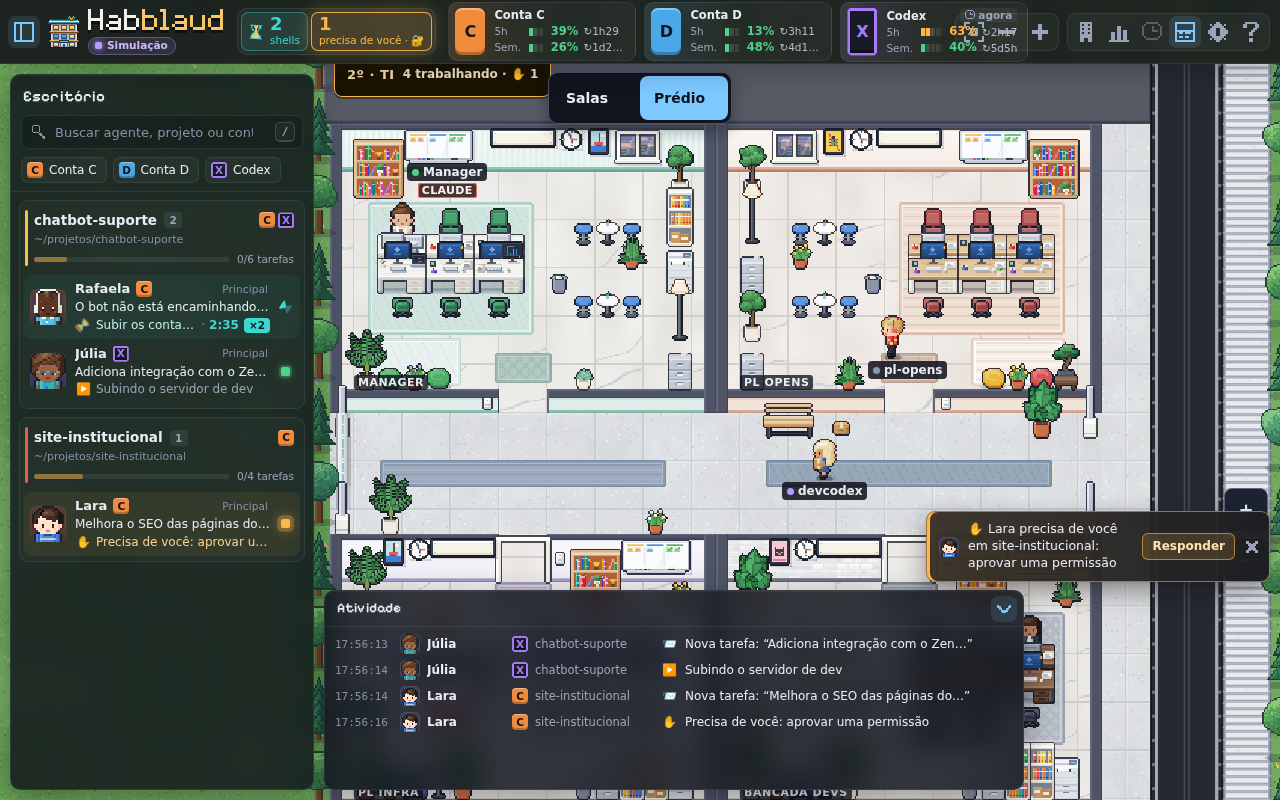
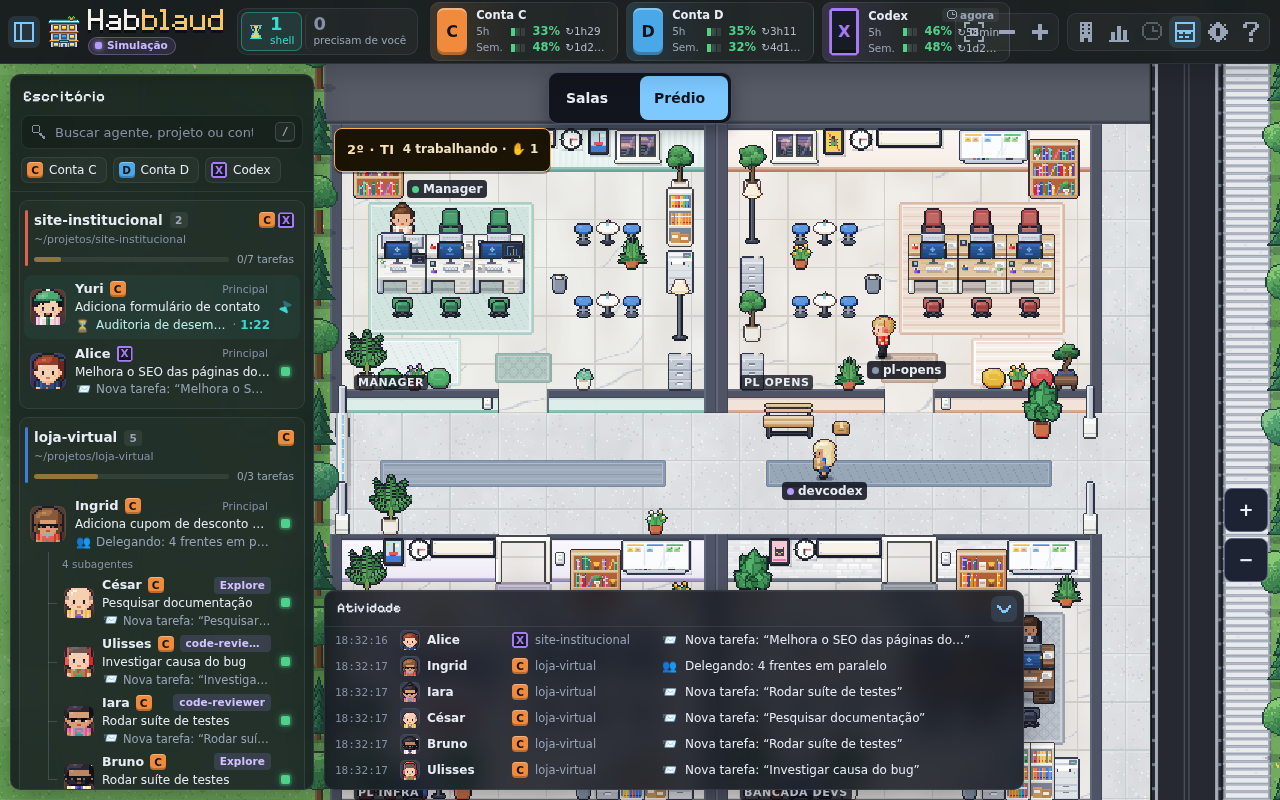
prédio vertical S7: placa do andar enquadrado abaixo da barra do topo e crachás fora da barra/gaveta Atividade (pedido do designer, t_eecf6447)

diff --git a/client/src/predio/vista.ts b/client/src/predio/vista.ts
@@ -15,7 +15,7 @@ import { PathFinder } from '../world/path/astar';
 import { furnitureSprites, opaqueBounds } from '../world/render/scene';
 import { Bonecos, type Boneco } from './bonecos';
 import { BUSCA_MAX, posicionarCrachas, sobrepoe, type ItemCracha } from './crachas';
-import { andarEm, enquadrarRet, ESCALA_MAX, escalaVisao, LARGO_PX, ladoDireito, MARGEM, retAndar, retSala, retSalaPorId, type Ret } from './enquadrar';
+import { andarEm, areaVisivel, enquadrarRet, ESCALA_MAX, escalaVisao, LARGO_PX, ladoDireito, MARGEM, prenderPlaca, retAndar, retSala, retSalaPorId, type LivreV, type Ret } from './enquadrar';
 import { BX, LAJE, montarCena, POCO_W, POCO_X, WT, type AndarCena, type Cena } from './planta';
 import { areasVis, desenhar, type ArtPredio, type Quadro } from './render';
 
@@ -349,6 +349,14 @@ export class VistaPredio implements UiComponent {
     this.margem = l + r < this.camada.clientWidth - 80 ? { l, r } : { l: 0, r: 0 };
     return this.margem;
   }
+  /** Faixas cobertas em cima (--free-top além da base da barra) e embaixo (barra/gaveta Atividade, --free-bottom). */
+  private livreV(): LivreV {
+    const cs = getComputedStyle(this.ctx.root);
+    const px = (n: string) => Math.max(0, parseFloat(cs.getPropertyValue(n)) || 0);
+    const t = Math.max(0, px('--free-top') - (parseFloat(this.camada.style.top) || 0));
+    const b = px('--free-bottom');
+    return t + b < this.camada.clientHeight - 80 ? { t, b } : { t: 0, b: 0 };
+  }
   private escalaVisao(): number {
     return escalaVisao(this.camada.clientWidth, this.livre());
   }
@@ -553,6 +561,8 @@ export class VistaPredio implements UiComponent {
       const max = sl + W - r - 8 - w;
       const x = Math.round(Math.max(min, Math.min(Math.max(ox + BX * TILE * s + 4, min), max)));
       let y = Math.round(p.a.y0 * TILE * s + (LAJE * TILE * s) / 2);
+      // nunca acima do topo da camada (a placa sumia sob a barra do topo com o andar enquadrado em 1280)
+      y = Math.round(prenderPlaca(y, h, this.camada.scrollTop, p.a.y1 * TILE * s));
       if (alt.w && sobrepoe({ x, y: y - h / 2, w, h }, alt) > 0) y = Math.round(alt.y + alt.h + 4 + h / 2);
       p.el.style.left = `${x}px`;
       p.el.style.top = `${y}px`;
@@ -583,7 +593,8 @@ export class VistaPredio implements UiComponent {
     const W = this.camada.clientWidth;
     const H = this.camada.clientHeight;
     const { l, r } = this.margem;
-    const vis: Ret = { x: sl + l, y: st, w: W - l - r, h: H };
+    // sem a lista, a gaveta, a faixa do topo e a barra/gaveta Atividade: crachá ali fica escondido (D4)
+    const vis: Ret = areaVisivel(sl, st, W, H, { l, r }, this.livreV());
     const limite: Ret = { x: vis.x + 4, y: vis.y + 4, w: vis.w - 8, h: vis.h - 8 };
     const ativos: Cracha[] = [];
     for (const c of this.crachas.values()) {
@@ -671,6 +682,7 @@ export class VistaPredio implements UiComponent {
     const W = this.camada.clientWidth;
     const H = this.camada.clientHeight;
     const { l, r } = this.margem;
+    const { t, b: fundo } = this.livreV();
     const ox = this.offX();
     const s = this.escala;
     const sl = this.camada.scrollLeft;
@@ -687,7 +699,7 @@ export class VistaPredio implements UiComponent {
       res.total++;
       if (c.curto) res.abreviados++;
       if (moveis.some((mv) => sobrepoe(a, mv) > 0)) res.sobreMovel++;
-      if (a.x < l - 0.5 || a.x + a.w > W - r + 0.5 || a.y < -0.5 || a.y + a.h > H + 0.5) res.cortados++;
+      if (a.x < l - 0.5 || a.x + a.w > W - r + 0.5 || a.y < t - 0.5 || a.y + a.h > H - fundo + 0.5) res.cortados++;
       if (placas.some((p) => sobrepoe(a, p) > 0) || crachas.some((o, j) => j !== i && sobrepoe(a, o.r) > 0)) res.sobreCrachaOuPlaca++;
     });
     return res;

diff --git a/client/src/predio/enquadrar.test.ts b/client/src/predio/enquadrar.test.ts
@@ -2,7 +2,7 @@ import { describe, expect, it } from 'vitest';
 import { roomTheme } from '../art/theme';
 import { TILE } from '../art/api';
 import { exemploPredio, montarPredio } from '../ui/predio-model';
-import { andarEm, enquadrarRet, ESCALA_MAX, escalaVisao, ladoDireito, retAndar, retSala, retSalaPorId, TOPO_PX } from './enquadrar';
+import { andarEm, areaVisivel, enquadrarRet, prenderPlaca, ESCALA_MAX, escalaVisao, ladoDireito, retAndar, retSala, retSalaPorId, TOPO_PX } from './enquadrar';
 import { BX, montarCena } from './planta';
 
 const cena = () => {
@@ -59,6 +59,25 @@ describe('enquadrar (D3)', () => {
 
   it('nunca passa de ESCALA_MAX', () => {
     expect(enquadrarRet({ x: 0, y: 0, w: 50, h: 50 }, 1280, 800).escala).toBe(ESCALA_MAX);
+  });
+
+  it('placa do andar enquadrado não sobe para baixo da barra do topo (presa 8 px abaixo do topo visível)', () => {
+    // 1280, lista fechada, toque no TI (escala 2,02): a placa cairia com o centro 5 px acima do topo da camada
+    const st = 1000;
+    expect(prenderPlaca(st - 5, 44, st, st + 600)).toBe(st + 8 + 22);
+    // já dentro: não mexe
+    expect(prenderPlaca(st + 100, 44, st, st + 600)).toBe(st + 100);
+    // andar quase todo rolado para cima: a placa não sai do próprio andar
+    expect(prenderPlaca(st - 500, 44, st, st + 20)).toBe(st + 20 - 8 - 22);
+    // andar todo acima da tela: fica onde estava
+    expect(prenderPlaca(st - 500, 44, st, st - 100)).toBe(st - 500);
+  });
+
+  it('área visível desconta a barra/gaveta Atividade embaixo, a faixa do topo e a lista lateral', () => {
+    // 375: barra Atividade em 766..804 (--free-bottom 54), camada de 108 a 812
+    expect(areaVisivel(0, 300, 375, 704, { l: 0, r: 0 }, { t: 8, b: 54 })).toEqual({ x: 0, y: 308, w: 375, h: 642 });
+    // 1280 com a lista e a gaveta abertas
+    expect(areaVisivel(50, 0, 1280, 736, { l: 322, r: 0 }, { t: 8, b: 218 })).toEqual({ x: 372, y: 8, w: 958, h: 510 });
   });
 
   it('sala do lado tocado, a mais perto do toque; ?sala= pelo id de PLANTA', () => {

diff --git a/client/src/predio/enquadrar.ts b/client/src/predio/enquadrar.ts
@@ -24,6 +24,27 @@ export interface Livre {
   r: number;
 }
 
+/** Faixas de cima e de baixo cobertas na camada (topo: o que passa da barra; baixo: barra/gaveta Atividade). */
+export interface LivreV {
+  t: number;
+  b: number;
+}
+
+/** Parte do palco (px) que aparece de fato: a tela rolada menos lista, gaveta, faixa do topo e Atividade. */
+export function areaVisivel(sl: number, st: number, W: number, H: number, livre: Livre, v: LivreV): Ret {
+  return { x: sl + livre.l, y: st + v.t, w: W - livre.l - livre.r, h: H - v.t - v.b };
+}
+
+/**
+ * Centro `y` da placa de um andar (px do palco): não sobe acima de `topoVis + MARGEM` (fica toda abaixo da barra
+ * do topo), mas também não desce além do fim do próprio andar (`fimAndar`). Andar fora da tela: não mexe.
+ */
+export function prenderPlaca(y: number, h: number, topoVis: number, fimAndar: number): number {
+  const min = topoVis + MARGEM + h / 2;
+  if (y >= min || fimAndar <= topoVis) return y;
+  return Math.max(y, Math.min(min, fimAndar - MARGEM - h / 2));
+}
+
 export interface Enquadramento {
   escala: number;
   scrollLeft: number;
